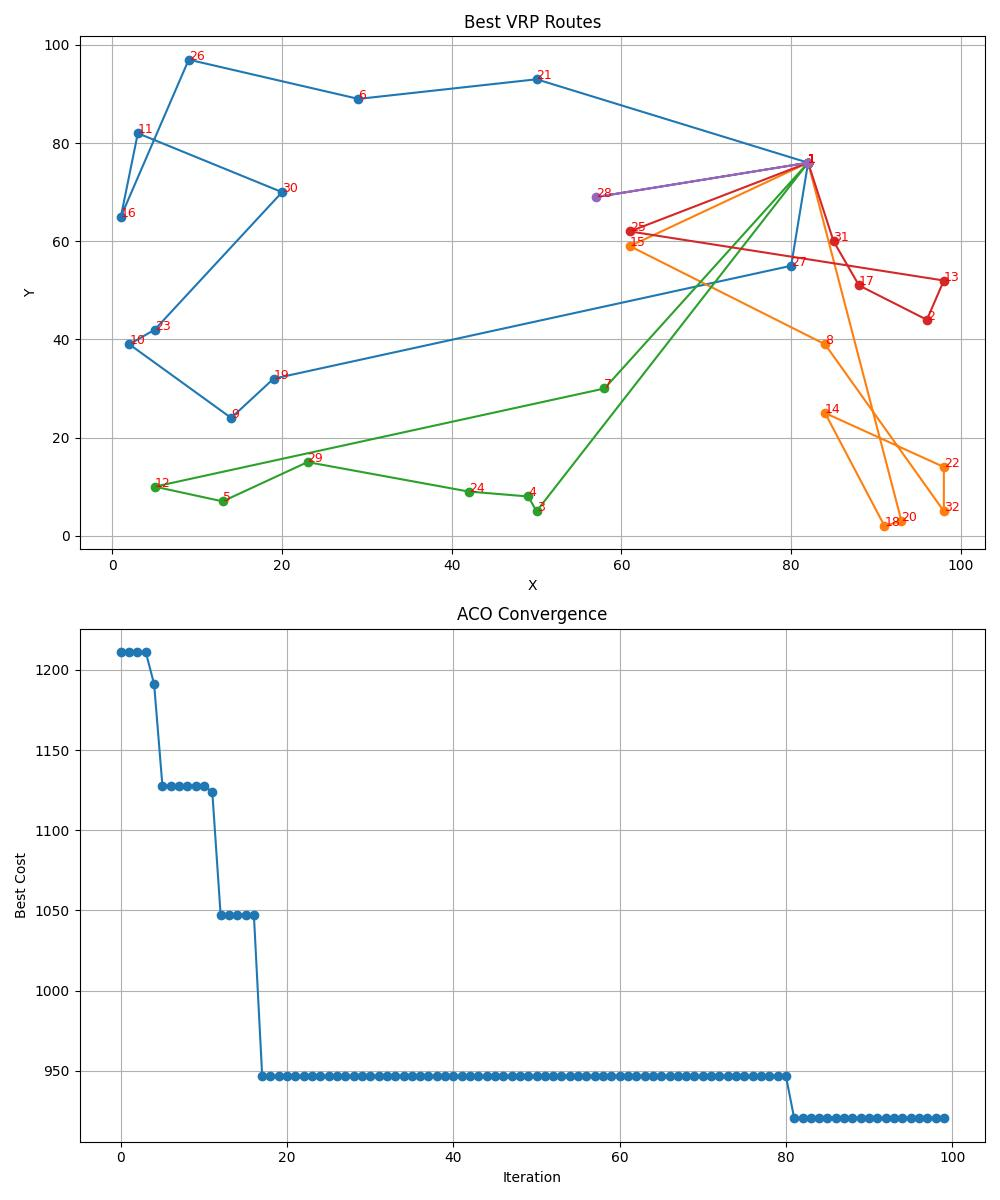
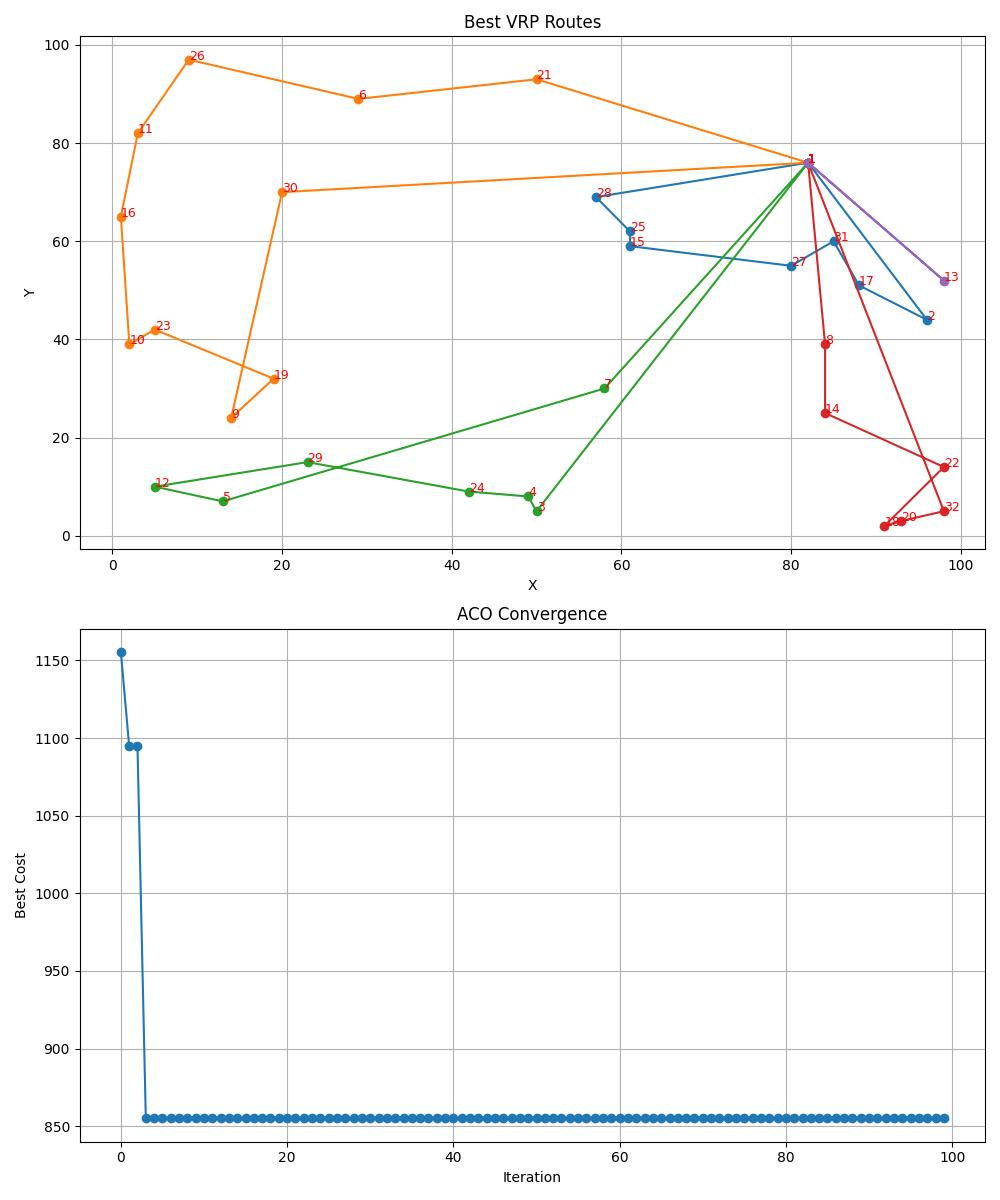
Edit the hyperparameters for better results

diff --git a/vrp_aco.py b/vrp_aco.py
@@ -210,17 +210,16 @@ def plot_results(best_solution: List[List[int]], convergence: List[float],
 def get_args() -> argparse.Namespace:
     parser = argparse.ArgumentParser(description="Solve VRP using Ant Colony Optimization")
     parser.add_argument("instance_file", help="XML file containing the VRP instance")
-    parser.add_argument("--ants", type=int, default=10, help="Number of ants (default: 10)")
+    parser.add_argument("--ants", type=int, default=20, help="Number of ants (default: 20)")
     parser.add_argument("--iterations", type=int, default=100, help="Number of iterations (default: 100)")
     parser.add_argument("--alpha", type=float, default=1.0, help="Pheromone influence (default: 1.0)")
-    parser.add_argument("--beta", type=float, default=2.0, help="Distance influence (default: 2.0)")
-    parser.add_argument("--evaporation_rate", type=float, default=0.5, help="Evaporation rate (default: 0.5)")
+    parser.add_argument("--beta", type=float, default=4.0, help="Distance influence (default: 4.0)")
+    parser.add_argument("--evaporation_rate", type=float, default=0.2, help="Evaporation rate (default: 0.2)")
     return parser.parse_args()  #return parsed arguments.
 
 #main function to run the optimization process.
 def main() -> None:
-    args = get_args()matplotlib
-argparse
+    args = get_args() #matplotlib argparse
     instance_file = args.instance_file
     if not os.path.exists(instance_file):
         print(f"Error: File {instance_file} does not exist.")

diff --git a/README.md b/README.md
@@ -49,11 +49,11 @@ The ACO algorithm simulates multiple “ants” that probabilistically build sol
 
 ## ACO Parameters
 I carefully chose the ACO parameters to balance exploration with convergence:
-- **Number of Ants (`num_ants`)**: I set this to **10** to provide sufficient exploration while keeping computation time reasonable.
+- **Number of Ants (`num_ants`)**: I set this to **20** to provide sufficient exploration while keeping computation time reasonable.
 - **Number of Iterations (`num_iterations`)**: I use **100 iterations**. This number allows the pheromone trails to converge while maintaining acceptable runtime.
 - **Pheromone Influence (`alpha`)**: I set `alpha` to **1.0** so that the pheromone trails have a moderate impact on the selection process.
-- **Heuristic Influence (`beta`)**: I choose `beta` as **2.0** to emphasize the importance of the inverse distance, thus favoring shorter hops.
-- **Evaporation Rate (`evaporation_rate`)**: I use a value of **0.5**. This high rate ensures that outdated routes lose their influence rapidly, promoting new explorations.
+- **Heuristic Influence (`beta`)**: I choose `beta` as **4.0** to emphasize the importance of the inverse distance, thus favoring shorter hops.
+- **Evaporation Rate (`evaporation_rate`)**: I use a value of **0.2**. This high rate ensures that outdated routes lose their influence rapidly, promoting new explorations.
 - **Random Seed**: I use `random.seed(42)` to ensure that my experiments are reproducible.
 
 
@@ -85,9 +85,9 @@ Three example runs have been performed:
 - **Parsed Nodes:** 32 (Depot is node 1).
 - **Vehicle Capacity:** 100.0.
 - **ACO Convergence:**  
-  - Initial best cost started at 1211.13 and converged down to 920.23.
+  - Initial best cost started at 1155.29 and converged down to 855.09.
 - **Solution:**  
-  - **Routes:** 5 routes are generated. For example, one route is `[1, 21, 6, 26, 16, 11, 30, 23, 10, 9, 19, 27, 1]`.
+  - **Routes:** 5 routes are generated. For example, one route is `[1, 21, 6, 26, 11, 16, 10, 23, 19, 9, 30, 1]`.
 - **Output:**  
   - Convergence graph and route visualization saved in `output/data_32.jpg`.
 
@@ -95,9 +95,9 @@ Three example runs have been performed:
 - **Parsed Nodes:** 72 (Depot is node 1).
 - **Vehicle Capacity:** 30000.0.
 - **ACO Convergence:**  
-  - The best cost converged to 350.60 after 100 iterations.
+  - The best cost converged to 302.65 after 100 iterations.
 - **Solution:**  
-  - **Routes:** 4 routes are generated; one example is `[1, 21, 30, 24, 27, 25, 26, 29, 23, 22, 31, 28, 47, 54, 44, 45, 43, 46, 49, 48, 71, 53, 51, 50, 52, 40, 69, 1]`.
+  - **Routes:** 4 routes are generated; one example is `[1, 21, 30, 24, 27, 25, 26, 31, 22, 23, 29, 28, 48, 49, 45, 43, 44, 47, 54, 46, 53, 71, 52, 50, 51, 40, 69, 1]`.
 - **Output:**  
   - Convergence graph and route visualization saved in `output/data_72.jpg`.
 
@@ -105,8 +105,8 @@ Three example runs have been performed:
 - **Parsed Nodes:** 421 (Depot is node 421).
 - **Vehicle Capacity:** 200.0.
 - **ACO Convergence:**  
-  - The cost converged to 2500.55 over 100 iterations.
+  - The cost converged to 2294.93 over 100 iterations.
 - **Solution:**  
-  - **Routes:** 38 routes are generated. The output details a series of routes (e.g., Route 1: `[421, 64, 90, ... ,421]`).
+  - **Routes:** 38 routes are generated. The output details a series of routes (e.g., Route 1: `[421, 96, 95, ... ,421]`).
 - **Output:**  
   - Convergence graph and route visualization saved in `output/data_422.jpg`.
